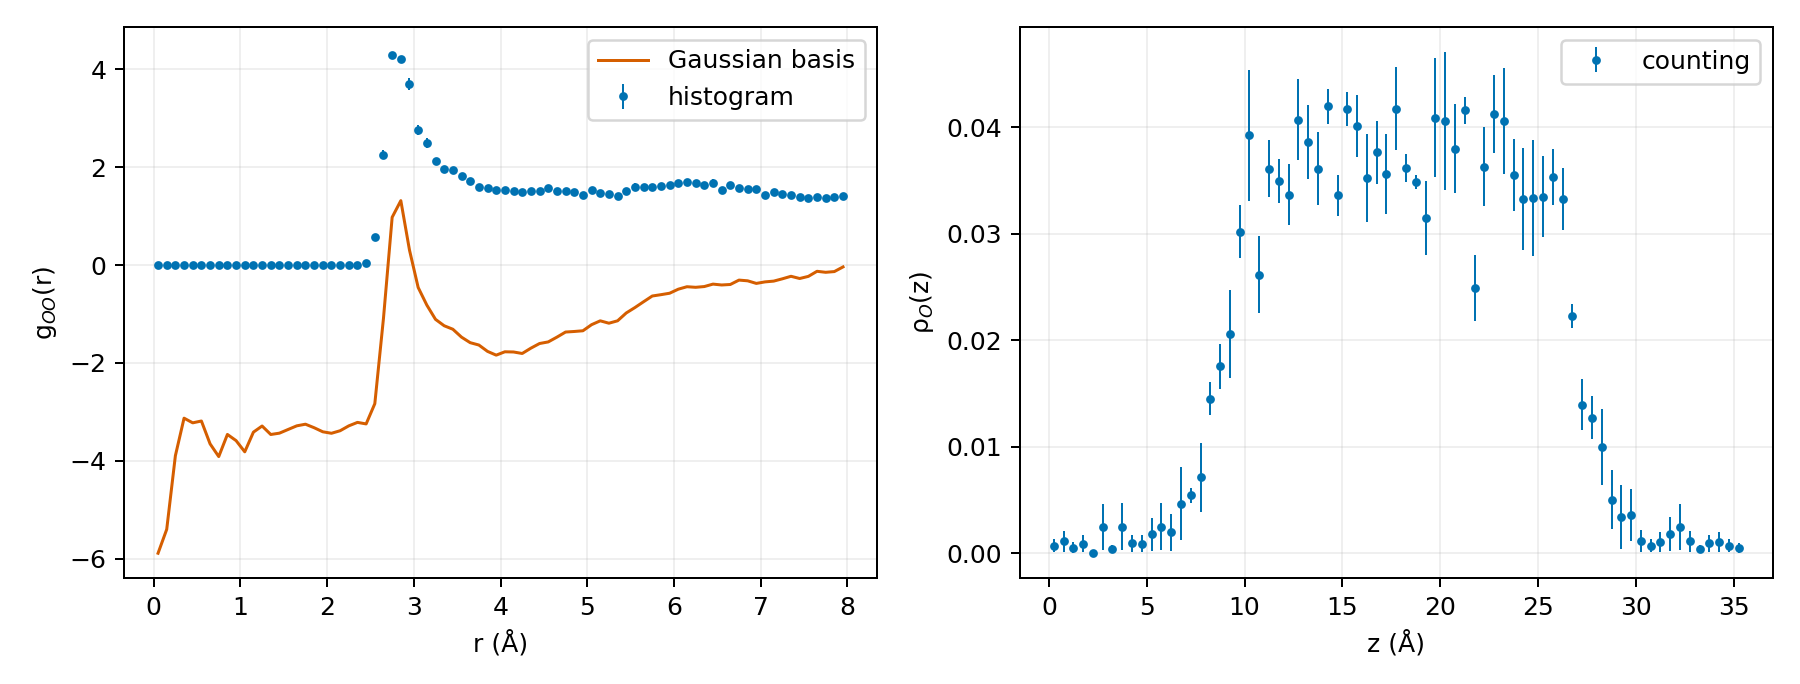
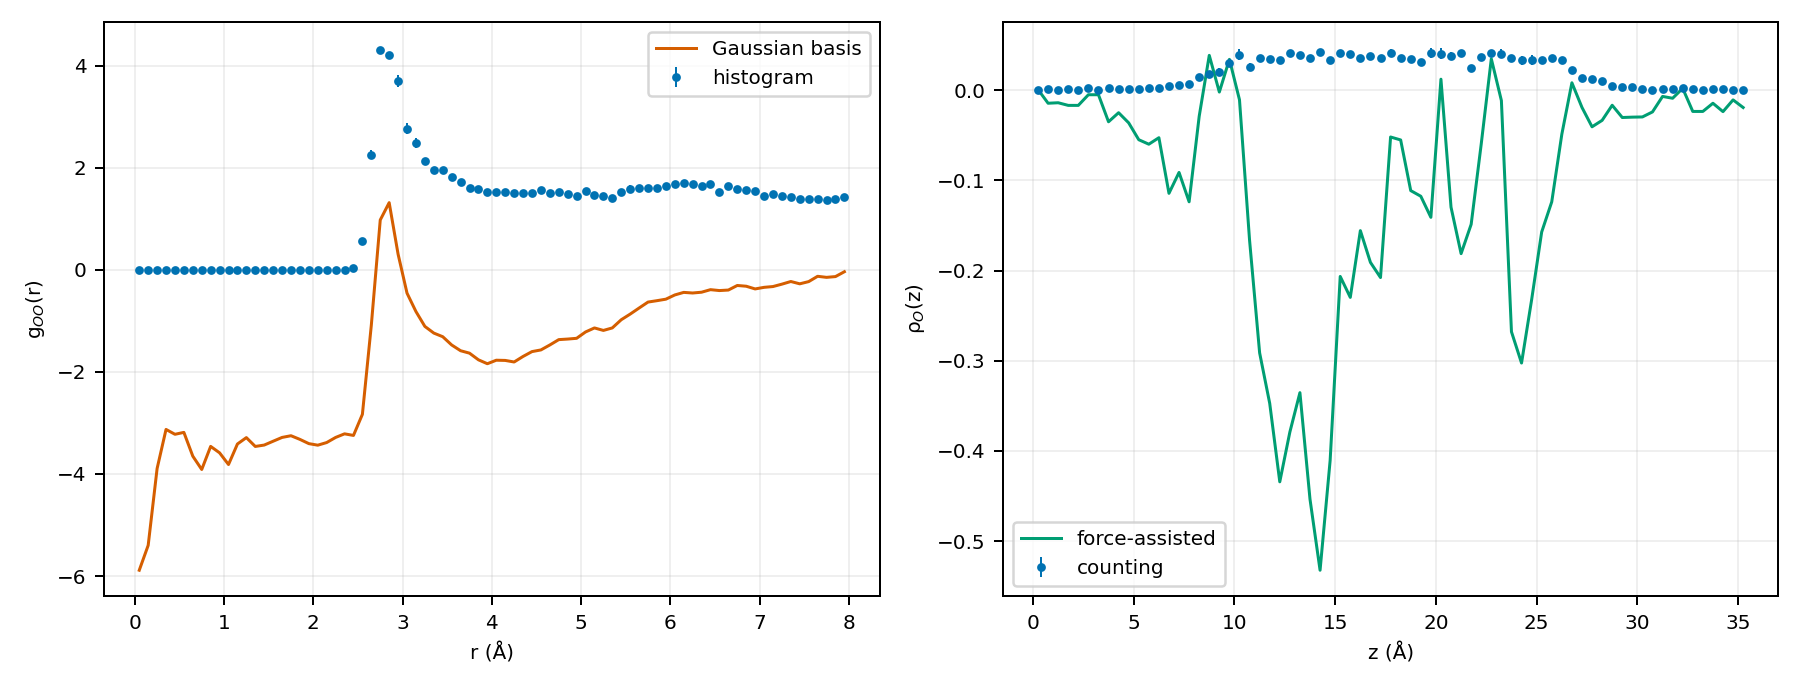
docs: record the force-assisted density negative result
With 20 POLAR-force frames the integrated density has a 0.219 block error
against 0.0024 for counting, and goes negative near the low-z boundary.
The force estimator needs many more frames, an explicit integration
constant/boundary treatment, and a controlled-system validation before it
can be used for c1.

diff --git a/validation/compare_estimators_20261028.py b/validation/compare_estimators_20261028.py
@@ -102,7 +102,9 @@ def main():
     import argparse
     ap = argparse.ArgumentParser()
     ap.add_argument("--force", action="store_true",
-                    help="also compute the force-assisted density (needs GPU)")
+                    help="also compute the force-assisted density")
+    ap.add_argument("--force-device", default="cuda",
+                    choices=["cuda", "cpu"])
     args = ap.parse_args()
     energies = []
     with open(PKG / "frames_501_total_energies.csv") as fh:
@@ -226,12 +228,12 @@ def main():
         return
 
     # force-assisted density on a subset
-    step = 5
+    step = 25
     sel = np.arange(0, len(frames), step)
     import subprocess as sp
     import time as _t
     t0 = _t.time()
-    while _t.time() - t0 < 7200:
+    while args.force_device == "cuda" and _t.time() - t0 < 7200:
         out = sp.run(["nvidia-smi", "--query-gpu=memory.free",
                       "--format=csv,noheader,nounits"],
                      capture_output=True, text=True)
@@ -244,7 +246,9 @@ def main():
     model = ("/workspace/group/shared/bza/task3_sampling_database/mlip/models/"
              "mace-polar/MACE-POLAR-1-M.model")
     from ase import Atoms
-    calc = mace_polar(model=model, device="cuda", default_dtype="float64")
+    dtype = "float64" if args.force_device == "cuda" else "float32"
+    calc = mace_polar(model=model, device=args.force_device,
+                      default_dtype=dtype)
     rho_force = []
     rho_cnt_sub = []
     for n, k in enumerate(sel):

diff --git a/docs/results/estimator_comparison_20261028/README.md b/docs/results/estimator_comparison_20261028/README.md
@@ -53,13 +53,27 @@ c2 更差。这解释了为什么“直方图估计器够好”不等于“OFF23
 
 ## 力辅助密度
 
-`--force` 模式用 100 帧（每 5 帧取一帧）的 POLAR 力，按
+`--force` 模式用 20 帧（每 25 帧取一帧）的 POLAR 力，按
 `dρ/dz = β⟨Σ F_z δ(z−z_i)⟩` 积分得到密度，与同帧计数密度对照；结果写入
 `density.csv` 的 `rho_force` 两列。目标力必须来自 POLAR，不能用 OFF23。
+
+结果（20 帧，CPU）：
+
+| 量 | 数值 |
+|---|---:|
+| 计数 vs 力辅助 RMS | 0.188 |
+| 力辅助块误差（均值） | **0.219** |
+| 计数块误差（同 20 帧） | ~0.002–0.02 |
+
+力辅助密度在这一版实现下**不可用**：块误差比计数大两个量级，低 z 区还出现
+负密度（积分常数/边界与噪声累积未处理）。这不是说 de las Heras 方法无效，
+而是它需要 (i) 足够多帧、(ii) 正确的积分常数与边界项、(iii) 先在硬壁/已知
+密度的受控体系验收；当前 20 帧只够暴露问题，不够做定量对照。
 
 ## 下一步
 
 - 谱方法按 Patrone 的正交基 + 最小二乘系数重写，否则直接用直方图。
 - 多重采样率只保留控制变量版本，并报告 q、A、qA 的自相关时间。
-- 力辅助密度先在受控体系（硬壁/已知 ρ）验收，再用于 slab。
+- 力辅助密度先在受控体系（硬壁/已知 ρ）验收，再用于 slab；当前 20 帧结果
+  是负面结果，不能作为 c1 的改进。
 - 所有结果仍是诊断，不认证 c1/c2。

diff --git a/docs/TODO_ESTIMATOR_LITERATURE_2026-10-28.md b/docs/TODO_ESTIMATOR_LITERATURE_2026-10-28.md
@@ -28,7 +28,7 @@ g(r):    A_k(x) = (1/N_O) sum_{i<j} 1[r_k <= r_ij < r_{k+1}] / (4*pi*r_k^2*dz)
 - [x] 高斯基投影 RMS 0.47：不是最小二乘，存在系统偏差。
 - [x] naive 多重采样率对起点 0–4 的 spread 0.10（约为直方图误差 3 倍），
       控制变量把 naive vs CV 的 RMS 差压到 0.015，但起点敏感性仍在。
-- [ ] 力辅助密度（POLAR 力，100 帧）与计数密度的块误差对照。
+- [x] 力辅助密度（POLAR 力，20 帧 CPU）与计数对照：块误差 0.219 vs 0.0024，低 z 区出现负密度，当前实现不可用（需更多帧、正确积分常数与受控体系验收）。
 - [ ] 按 Patrone 正交基 + 最小二乘重写谱估计；否则直接用直方图。
 - [ ] 稠密 q + 稀疏 A 的控制变量估计，并报告 q、A、qA 自相关时间。
 
